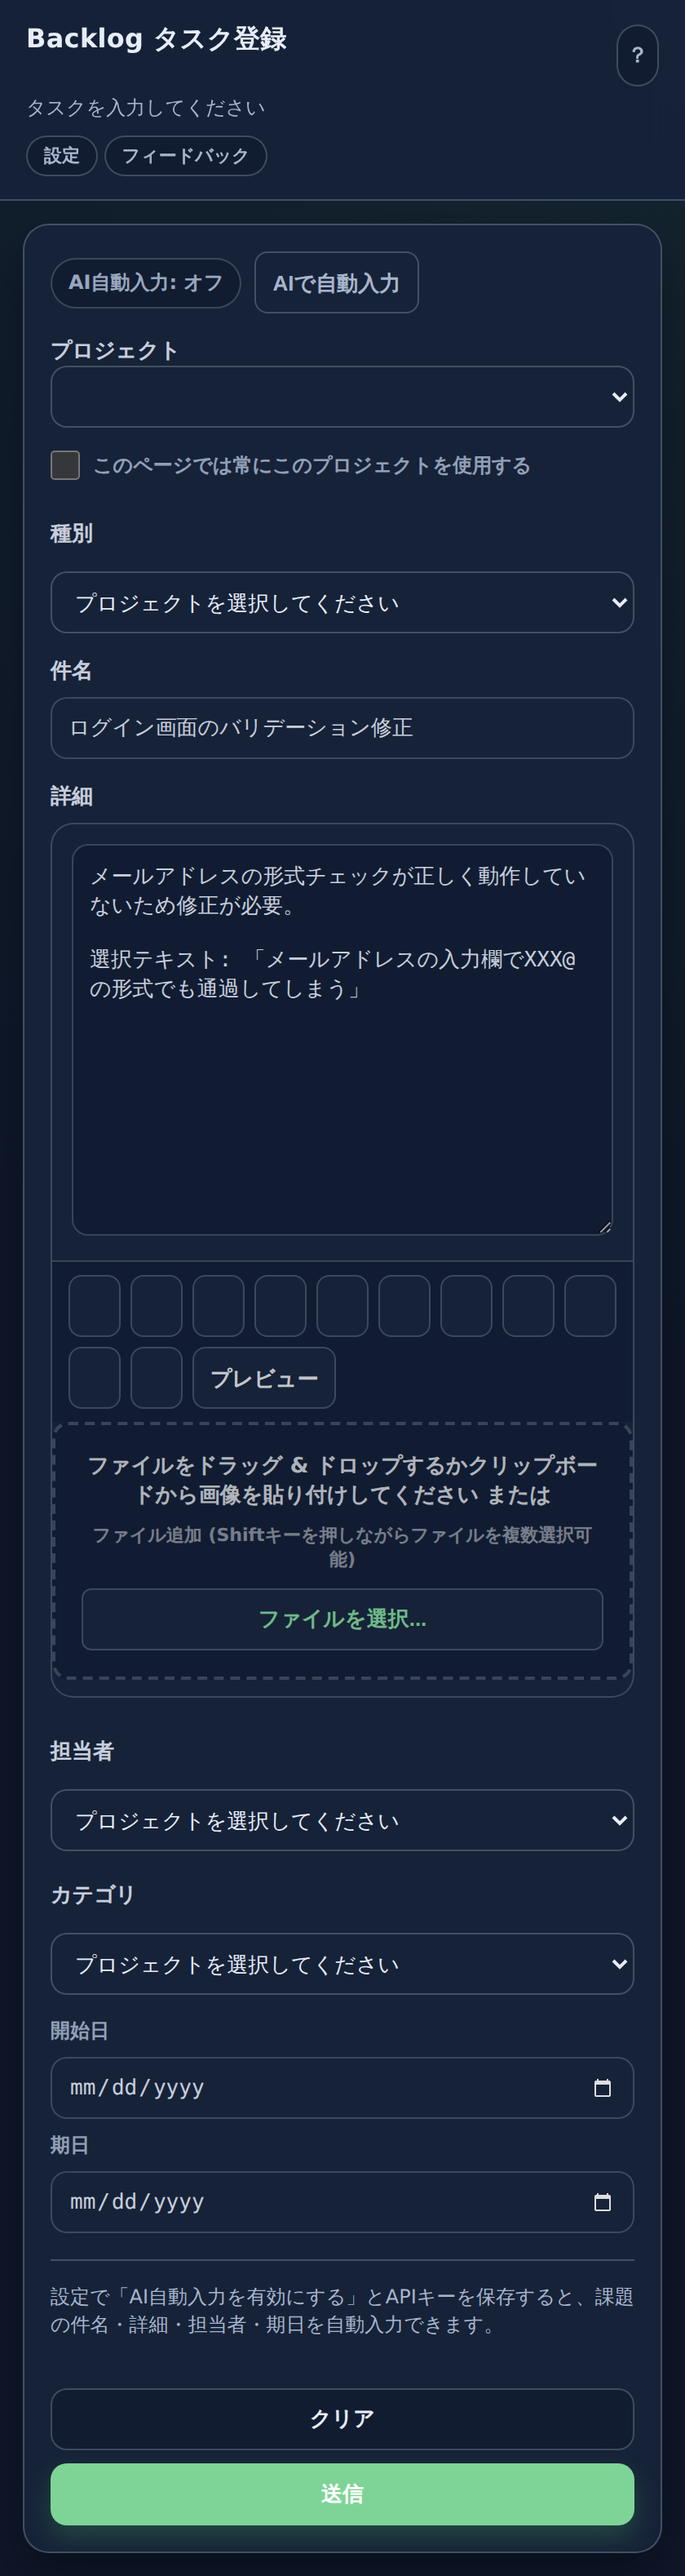
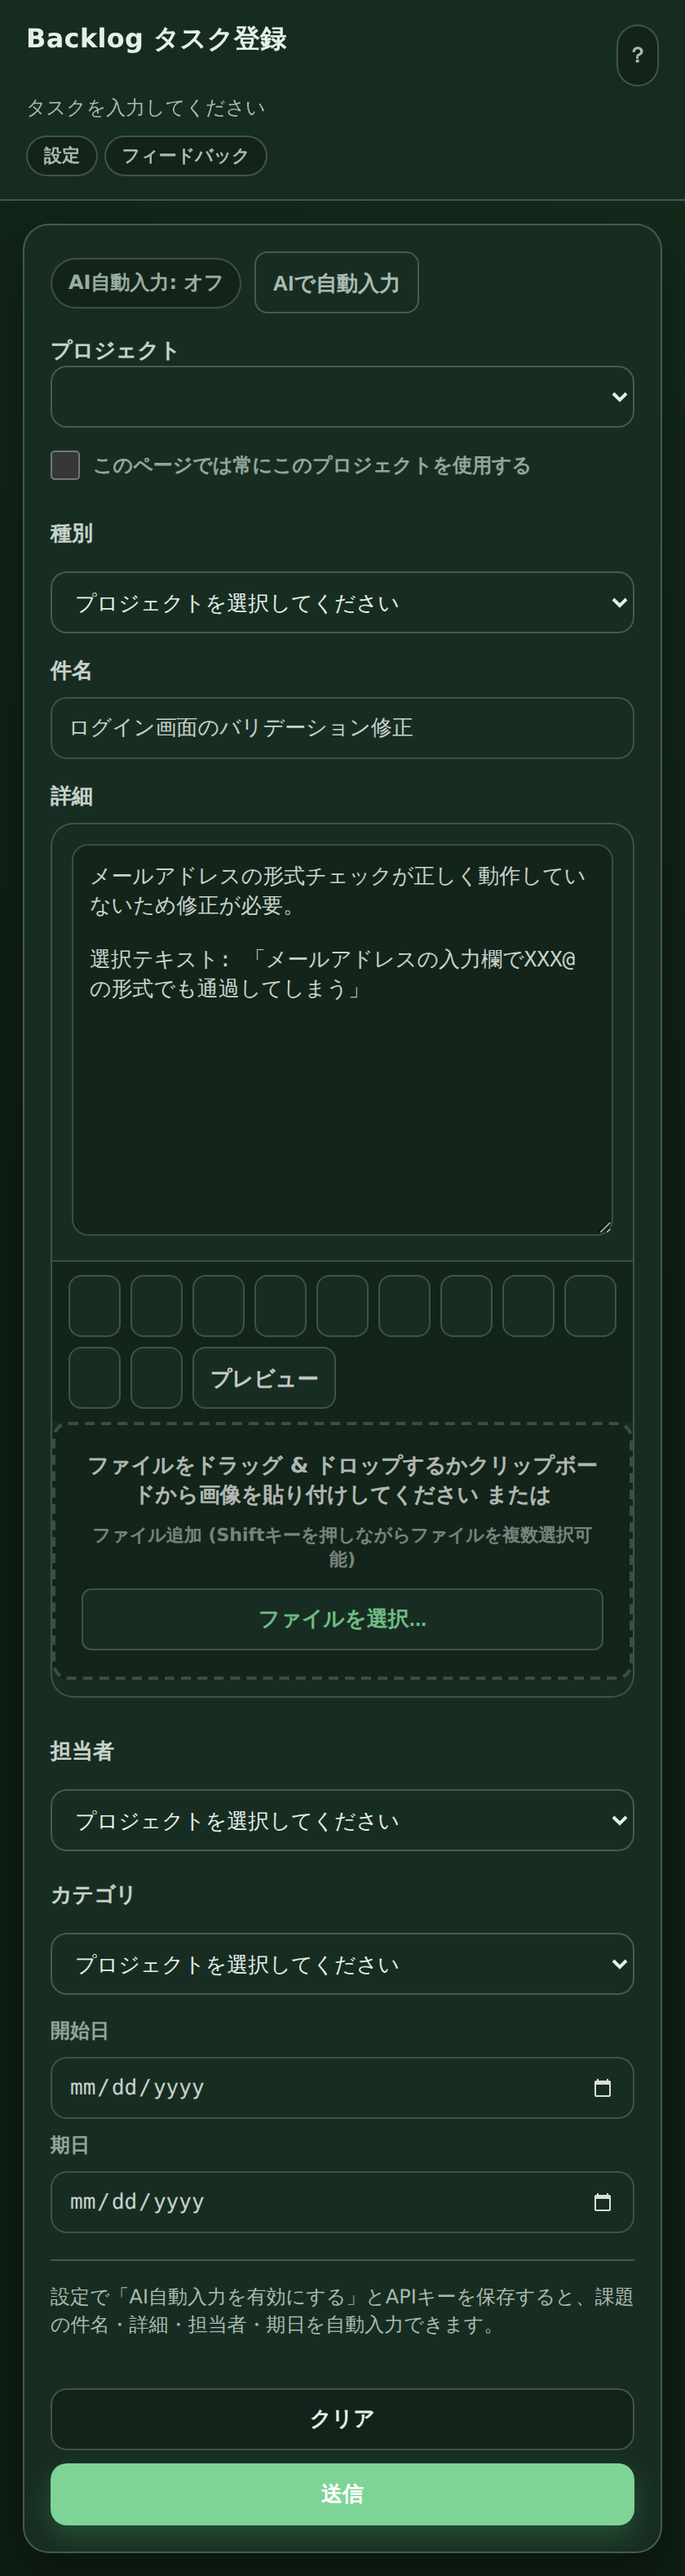
style: ダークモードの背景・サーフェイスをBacklog緑系に統一
- 主要CSS変数（--ui-bg, --ui-surface, --ui-surface-muted, --ui-text,
  --ui-text-soft, --ui-border）をslate青系から緑寄りダークトーンに変更
- ハードコードのダークグレー（#2d2d2d, #1e1e1e, #252525）を緑がかった
  ダーク色（#1f2d24, #14201a, #1a251f）に置換し入力欄も統一
- header / actions の rgba(22, 34, 56) を新サーフェイス色 rgba(24, 45, 34)
  に揃え、青みを完全に排除

https://claude.ai/code/session_01E98zKsYxTFsxbqMJvW18XU

diff --git a/sidepanel.html b/sidepanel.html
@@ -676,7 +676,7 @@
       @media (prefers-color-scheme: dark) {
         /* Select2 ドロップダウン・検索・結果 */
         .select2-dropdown {
-          background-color: #2d2d2d;
+          background-color: #1f2d24;
           border-color: rgba(255, 255, 255, 0.2);
         }
         .select2-container--default .select2-selection--single {
@@ -712,7 +712,7 @@
           border-color: transparent transparent rgba(255, 255, 255, 0.6) transparent;
         }
         .select2-search--dropdown .select2-search__field {
-          background-color: #1e1e1e;
+          background-color: #14201a;
           border-color: rgba(255, 255, 255, 0.2);
           color: inherit;
         }
@@ -749,22 +749,22 @@
         /* リッチエディタ */
         .editorCard {
           border-color: rgba(255, 255, 255, 0.15);
-          background: #2d2d2d;
+          background: #1f2d24;
         }
         .editorTextarea {
           border-color: rgba(255, 255, 255, 0.15);
-          background: #1e1e1e;
+          background: #14201a;
           color: inherit;
         }
         .editorPreview {
           border-color: rgba(255, 255, 255, 0.15);
-          background: #1e1e1e;
+          background: #14201a;
           color: inherit;
         }
         .editorPreview ul li:has(input[type="checkbox"]) input[type="checkbox"],
         .editorPreview ol li:has(input[type="checkbox"]) input[type="checkbox"] {
           border-color: rgba(255, 255, 255, 0.4);
-          background: #2d2d2d;
+          background: #1f2d24;
         }
         .editorPreview th,
         .editorPreview td {
@@ -778,7 +778,7 @@
         }
         .editorToolbar {
           border-top-color: rgba(255, 255, 255, 0.1);
-          background: #252525;
+          background: #1a251f;
         }
         .editorToolbar .tb {
           color: rgba(255, 255, 255, 0.9);
@@ -788,7 +788,7 @@
         }
         .tb {
           border-color: rgba(255, 255, 255, 0.18);
-          background: #2d2d2d;
+          background: #1f2d24;
           color: inherit;
         }
         .fileDropZone {
@@ -807,7 +807,7 @@
         }
         .fileSelectBtn {
           border-color: rgba(255, 255, 255, 0.25);
-          background: #2d2d2d;
+          background: #1f2d24;
           color: #7ed496;
         }
         .fileSelectBtn:hover {
@@ -815,7 +815,7 @@
         }
         .fileItem {
           border-color: rgba(255, 255, 255, 0.12);
-          background: #2d2d2d;
+          background: #1f2d24;
         }
         .fileItemRemove {
           color: rgba(255, 255, 255, 0.5);
@@ -827,7 +827,7 @@
 
         /* メンションサジェスト */
         .mentionMenu {
-          background: #2d2d2d;
+          background: #1f2d24;
           border-color: rgba(255, 255, 255, 0.18);
           box-shadow: 0 8px 24px rgba(0, 0, 0, 0.4);
         }
@@ -858,12 +858,12 @@
       }
 
       html.dark-mode {
-        --ui-bg: #0f172a;
-        --ui-surface: #162238;
-        --ui-surface-muted: #111c31;
-        --ui-text: #e6edf9;
-        --ui-text-soft: #a7b5cc;
-        --ui-border: rgba(148, 163, 184, 0.35);
+        --ui-bg: #0f1e15;
+        --ui-surface: #182d22;
+        --ui-surface-muted: #132319;
+        --ui-text: #e6efe9;
+        --ui-text-soft: #a8bbb0;
+        --ui-border: rgba(168, 187, 176, 0.32);
         --ui-primary: #7ed496;
         --ui-primary-hover: #5fb97a;
         --ui-ring: rgba(126, 212, 150, 0.3);
@@ -893,7 +893,7 @@
       }
 
       html.dark-mode header {
-        background: rgba(22, 34, 56, 0.92);
+        background: rgba(24, 45, 34, 0.92);
       }
 
       header h1 {
@@ -1158,7 +1158,7 @@
       }
 
       html.dark-mode .actions {
-        background: linear-gradient(to bottom, rgba(22, 34, 56, 0), var(--ui-surface) 30%);
+        background: linear-gradient(to bottom, rgba(24, 45, 34, 0), var(--ui-surface) 30%);
       }
 
       #clear {
